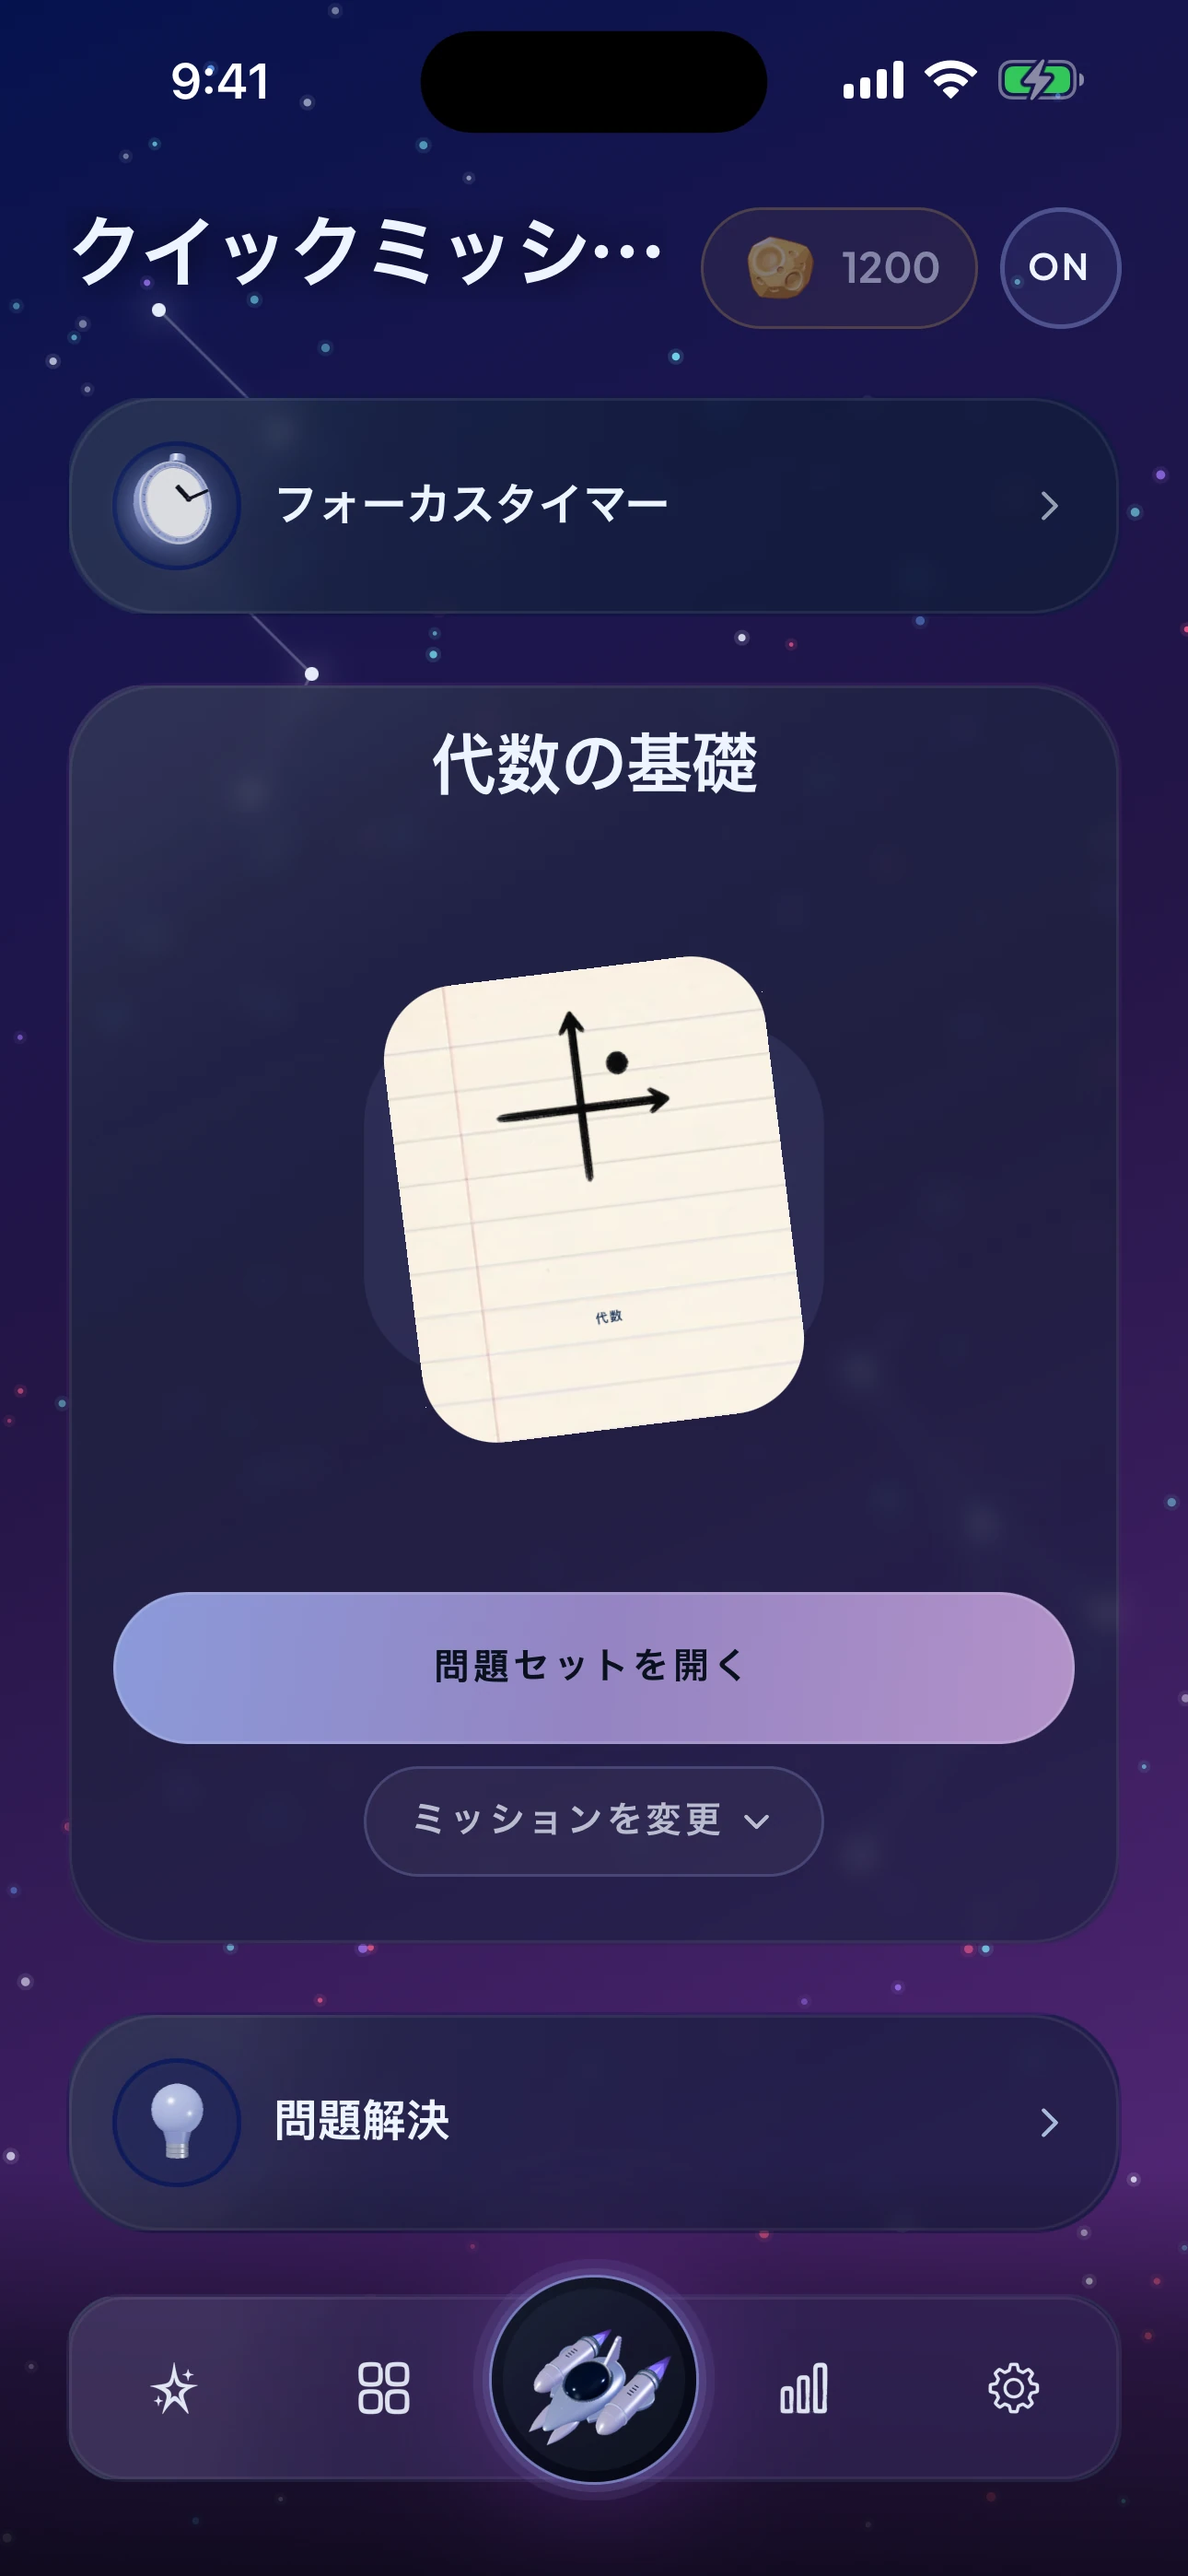
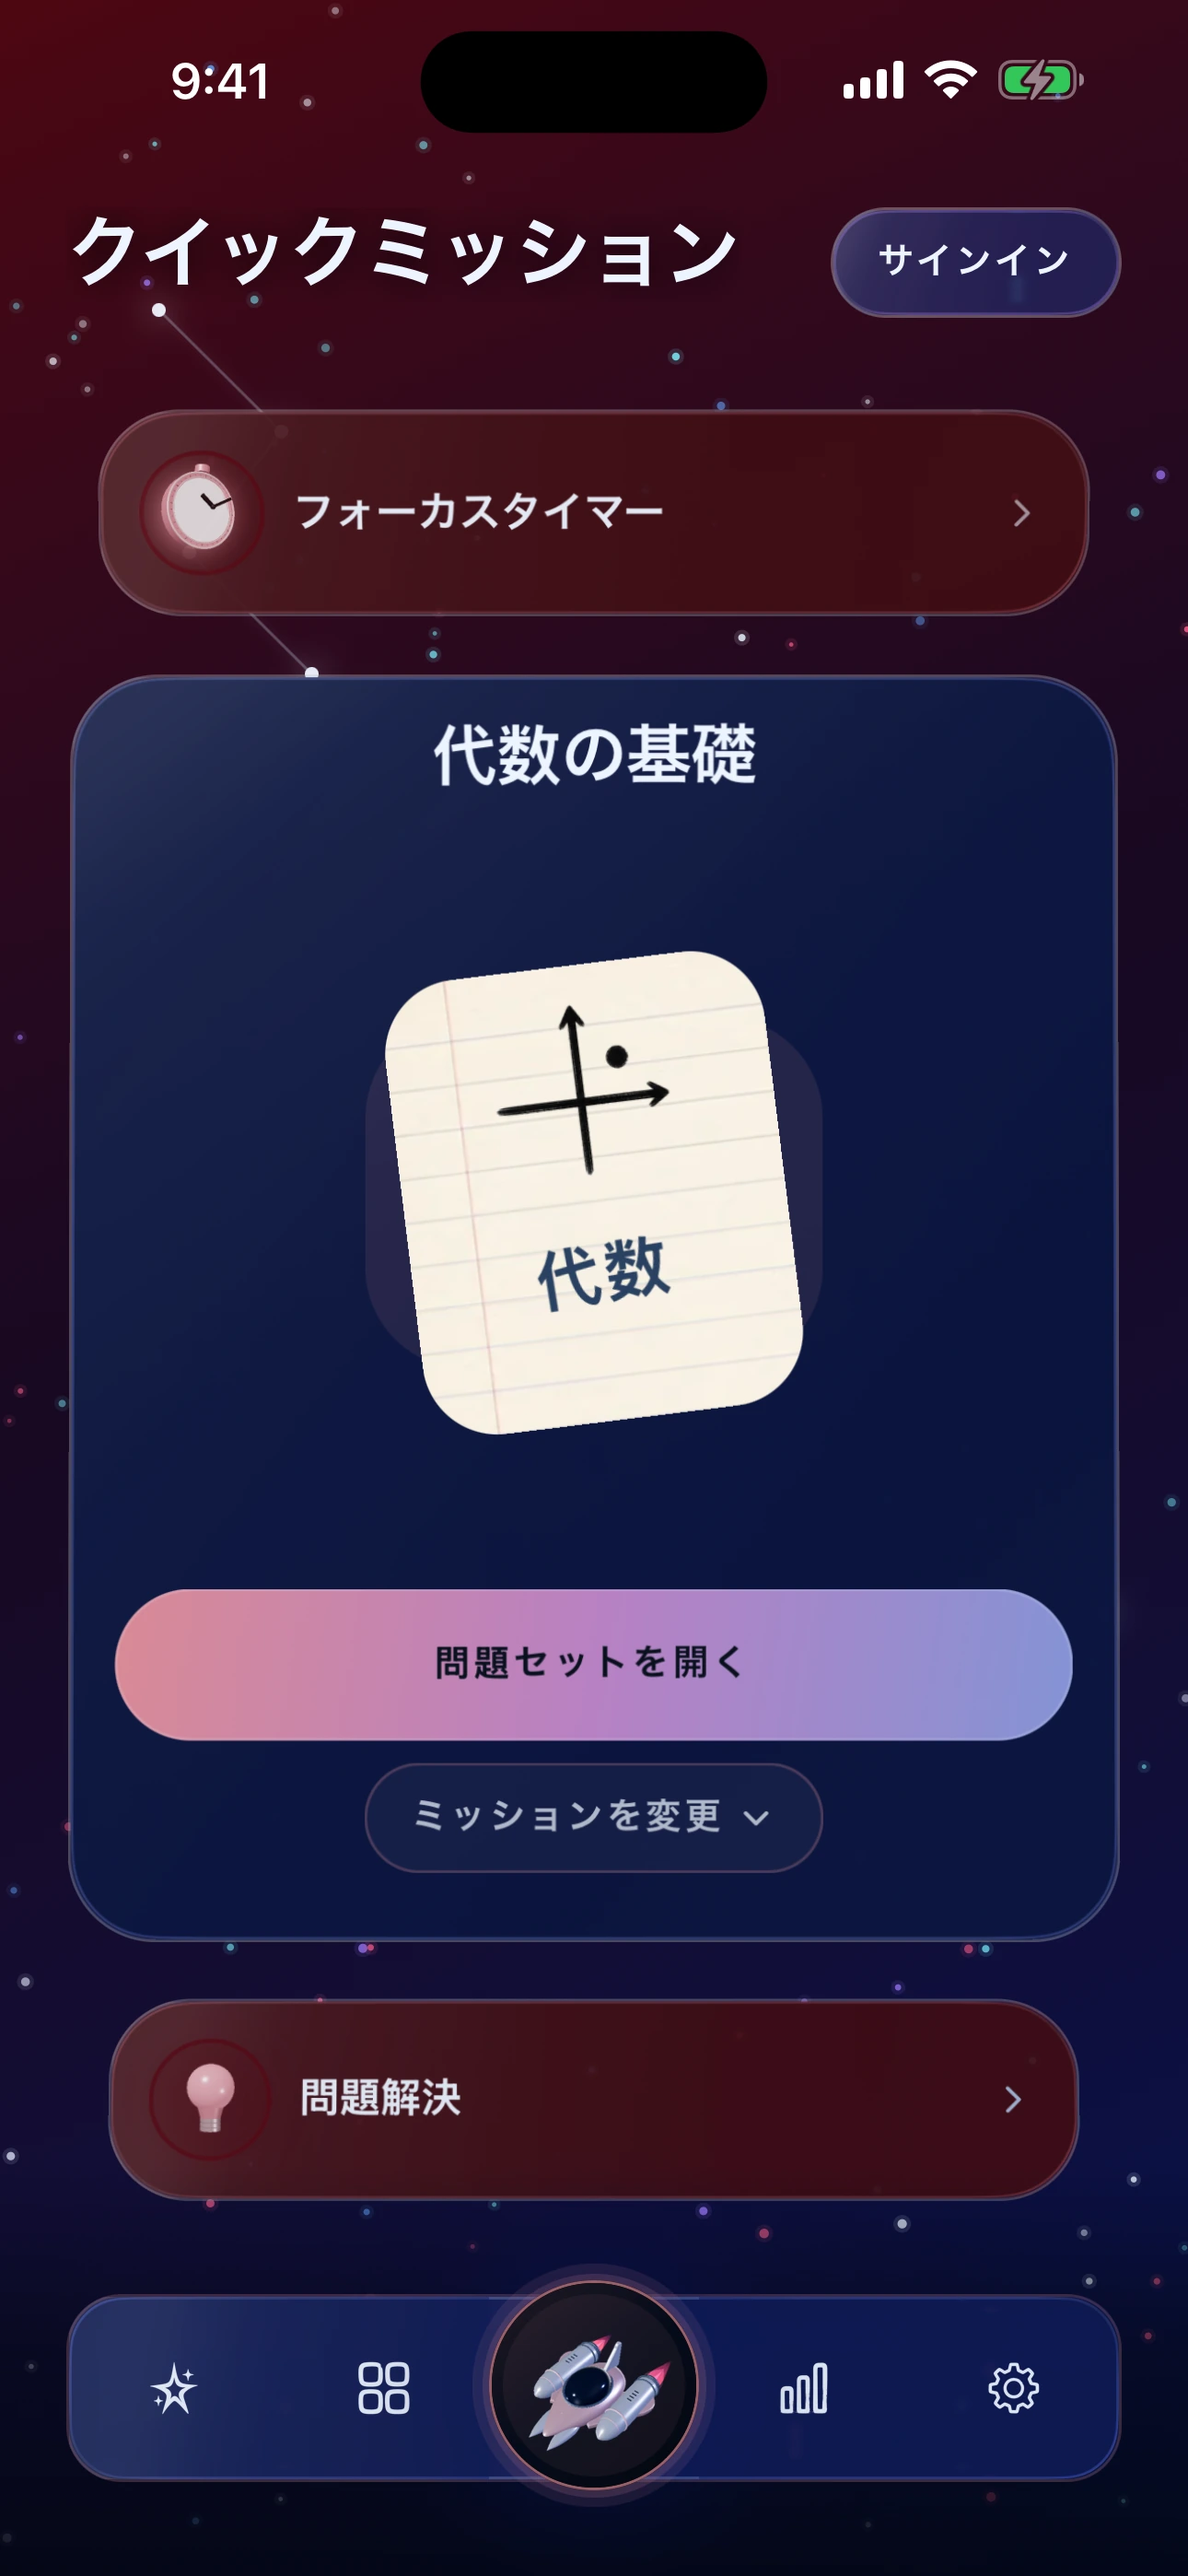
fix(site): finish native language gallery recapture and visual QA

diff --git a/lune-synth/index.html b/lune-synth/index.html
@@ -10925,7 +10925,7 @@
   <link rel="stylesheet" href="/campaign/typography.css?v=1" />
   <link rel="stylesheet" href="/campaign/phone-chassis.css?v=1" />
   <link rel="stylesheet" href="/campaign/phone-mock-fluid.css?v=1" />
-  <script src="/campaign/lang-shots.js?v=4" defer></script>
+  <script src="/campaign/lang-shots.js?v=5" defer></script>
   <script src="/campaign/lang-background.js?v=2" defer></script>
   <link rel="stylesheet" href="/campaign/tock-section.css?v=12" />
   <script src="/campaign/tock-secret.core.js?v=4" defer></script>
@@ -13161,7 +13161,7 @@
                     <img
                       class="lang-shot__image lang-shot__image--a is-active"
                       data-lang-shot-layer="a"
-                      src="screenshots/applied/lang/home-en.webp?v=4"
+                      src="screenshots/applied/lang/home-en.webp?v=5"
                       width="1290"
                       height="2796"
                       loading="lazy"

diff --git a/lune-synth/campaign/lang-shots.js b/lune-synth/campaign/lang-shots.js
@@ -35,7 +35,7 @@
   });
 
   function imageSrc(screen, locale) {
-    return "screenshots/applied/lang/" + screen + "-" + locale + ".webp?v=4";
+    return "screenshots/applied/lang/" + screen + "-" + locale + ".webp?v=5";
   }
 
   function altFor(screen, locale) {

diff --git a/README.md b/README.md
@@ -10,6 +10,8 @@ The site presents Coherascent as a dual-pillar organization:
 
 ## Update Log
 
+- 2026-10-28: Completed the language-gallery refresh with German, Brazilian Portuguese, Simplified Chinese, Japanese and Korean Home retakes. All 18 Home/Shop screenshots now use current native screens, readable notebook labels, loaded artwork and matched 1290×2796 frames. Preserved exact-byte review records and both final contact sheets; versioned the final batch for returning visitors.
+
 - 2026-10-28: Re-captured all nine translated Shop previews from the current native layout, with Moon Rock Shop first and overlapping examples for frames, ships, XP boosts and Cryonics. Individually reviewed all nine full-frame WebPs, refreshed their exact-byte provenance and rotated the gallery cache version.
 
 - 2026-10-28: Re-captured English, Spanish, French and Hindi Home language previews with readable native notebook labels and loaded clock, bulb and ship artwork. Versioned the gallery and initial image for returning visitors, standardized frame dimensions, and extended exact-byte review coverage to English Home. Remaining Home locales and the Shop refresh follow as reviewed batches.
